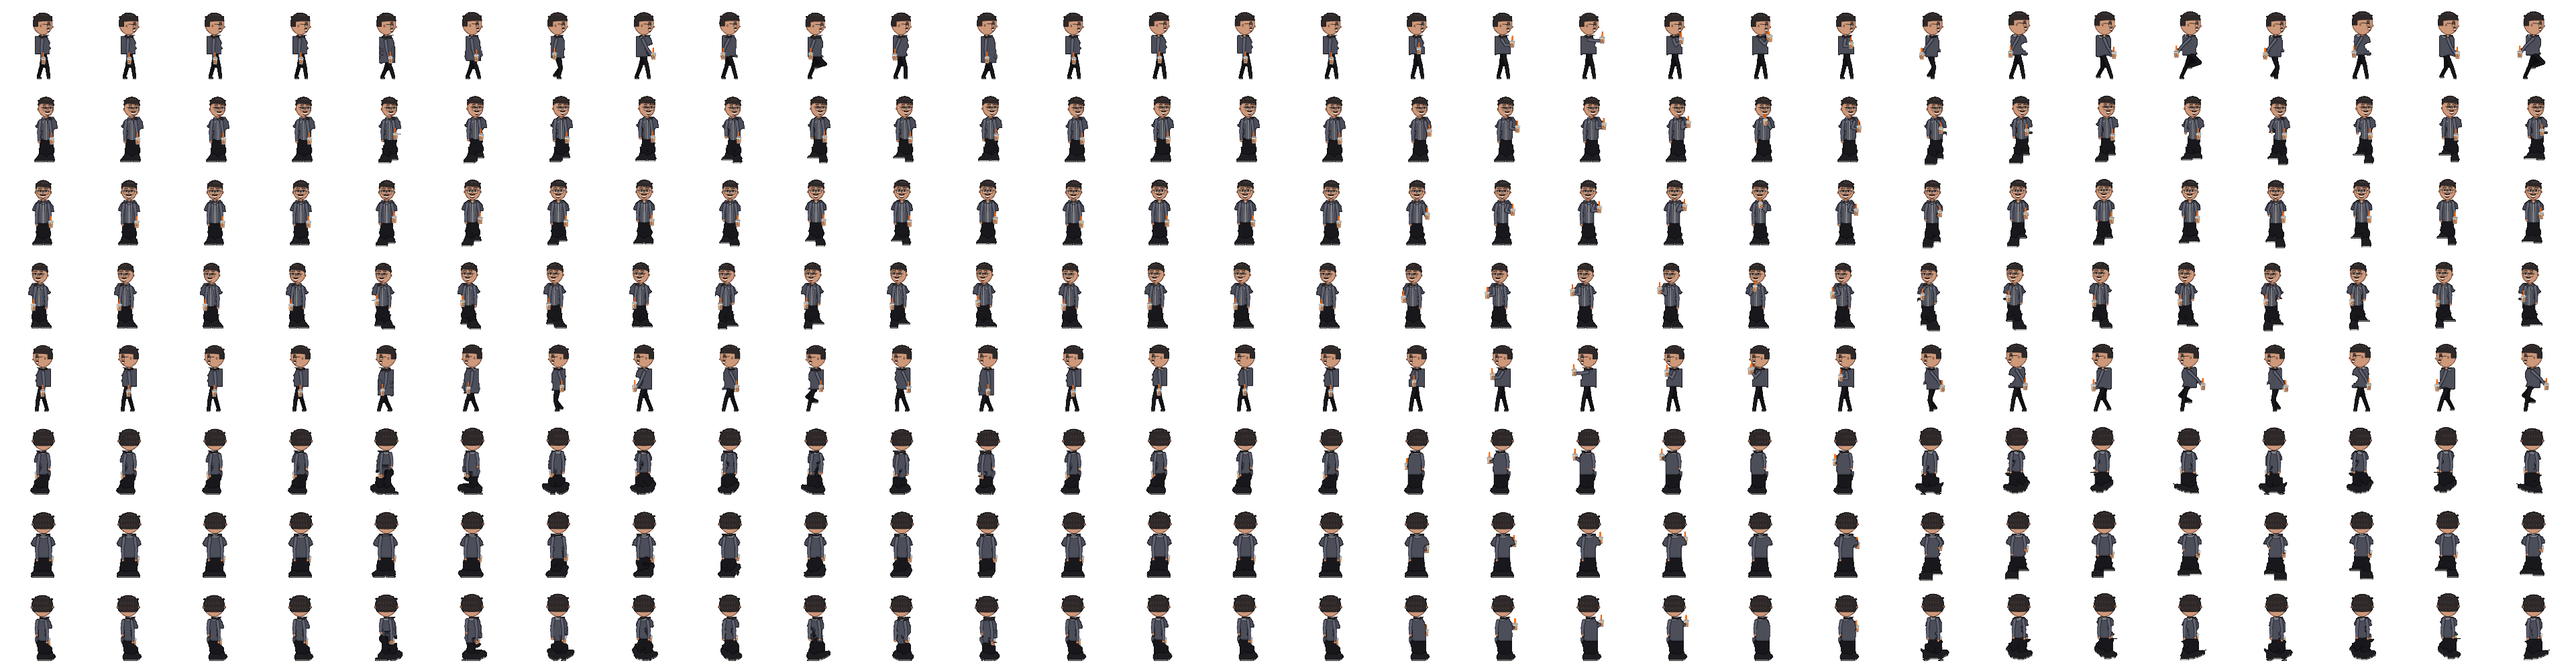
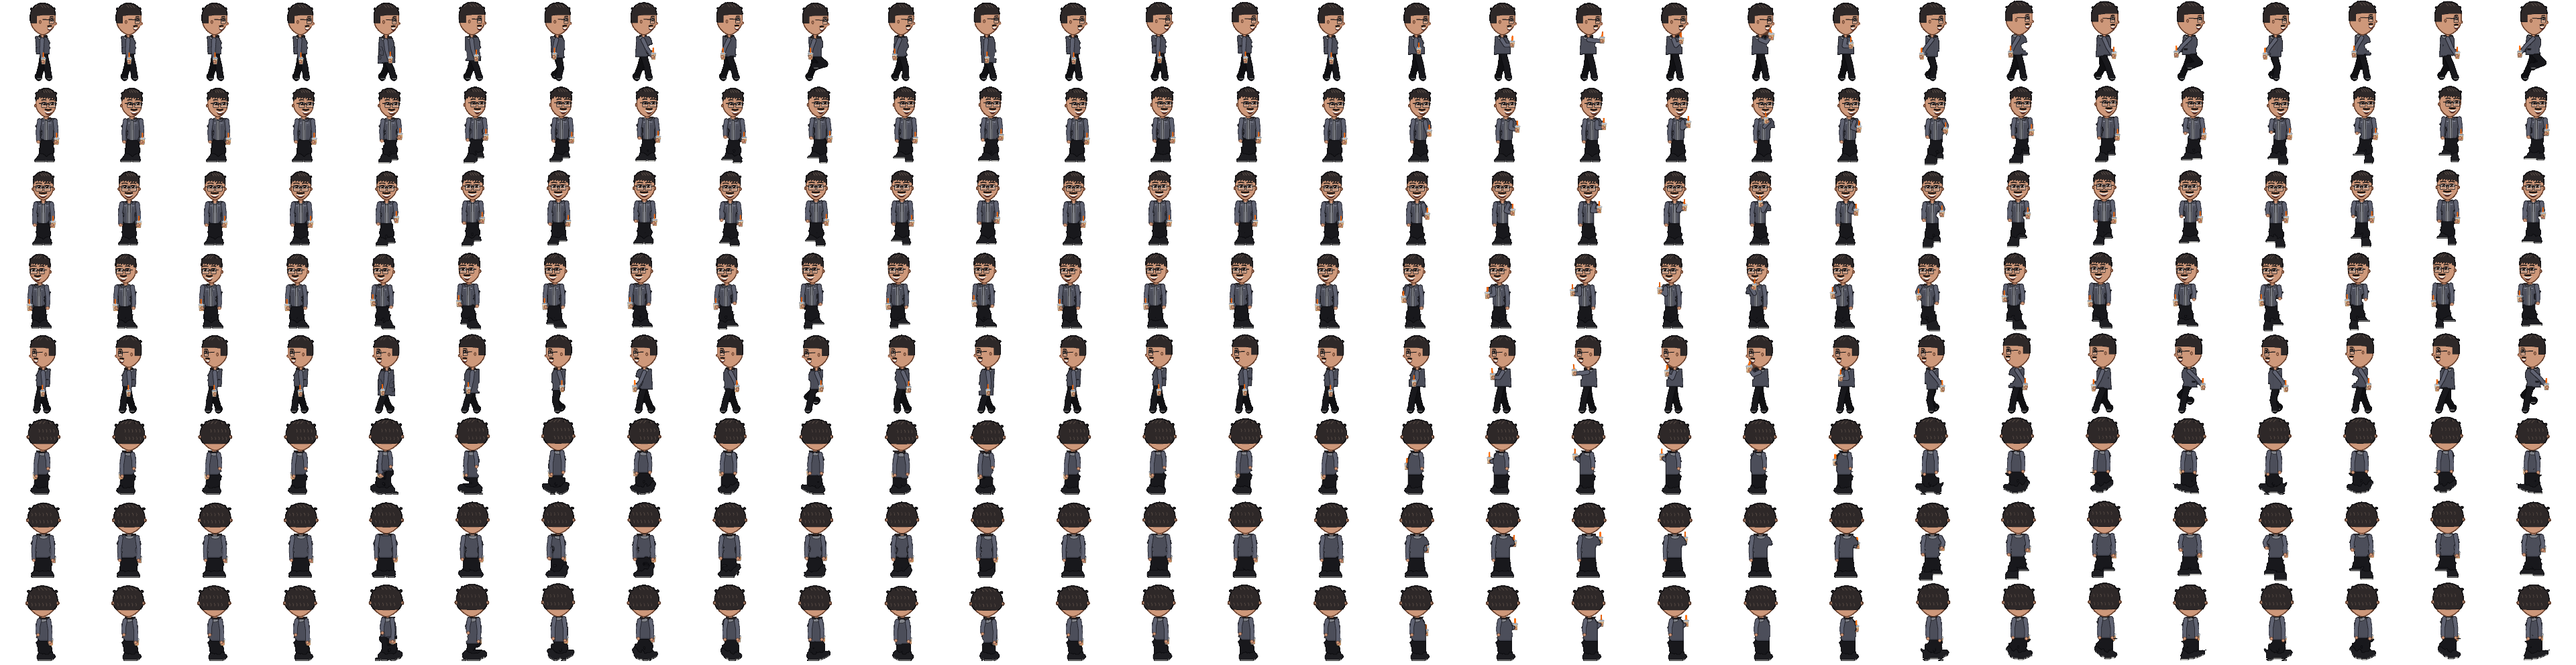
Billy: smooth shoulders, baggy pants all directions, normal arms, bigger oval head
- jacket shoulder aligned to the sleeve (no flap); side-view back is a fixed-depth
  rounded line that follows the torso lean
- profile legs wider with bunched hems; NW/NE torso filled where the kid arm was cut
- arms ARM_R 3.5 with hands; head 1.38 tall oval, scaled 1.45x about the chin
- solid check upper-back window neck+4..+11 (swinging run arm below it)

diff --git a/phaser-tag-client/tools/make_billy_skin.py b/phaser-tag-client/tools/make_billy_skin.py
@@ -47,6 +47,10 @@ ASSETS = HERE.parent / "public" / "assets"
 
 SS = 4
 OW, OH = 128, 124          # output frame
+HEAD_SCALE = 1.45
+ARM_R = 3.5
+BACK_D = 12.0
+TORSO_D = 15.0
 OBASE = 118                # feet line in the output frame
 SRC_BASE = 96              # feet line in kid.png
 SRC_CX = 40
@@ -269,7 +273,7 @@ def render_body(lab, wp, back_fx=0):
         if back_fx:
             # side view: square the jacket back off to the torso's back line
             # (the warp slants the shoulder and the removed far arm notches it)
-            y0, y1 = int(S(wp.yn_o - 0.5)), jr.max() - SS
+            y0, y1 = int(S(wp.yn_o - 0.5)), jr.max() + 1
             wrows = range(int(S(wp.yn_o - 4)), int(S(wp.yn_o + 4)))
             wid = [(union[y].sum() if union[y].any() else 10 ** 6, y) for y in wrows]
             if wid:
@@ -280,10 +284,32 @@ def render_body(lab, wp, back_fx=0):
                      for y in range(y0, y1) if J[y].any()}
             if edges:
                 lower = [v for y, v in edges.items() if y > (y0 + y1) / 2]
-                ref = np.percentile(lower or list(edges.values()), 20 if back_fx > 0 else 80)
+                # fixed torso depth behind the neck in every side frame
+                wy = min(wid)[1] if wid else y0
+                nx_ = xs_[union[wy]]
+                ncx_ = (nx_.min() + nx_.max()) / 2 if len(nx_) else np.median(list(edges.values()))
+                # fixed torso depth behind the neck; follow the lean of the
+                # back (slope of the existing back line)
+                # torso axis: neck centre -> centre of the jacket hem row
+                hy_ = y1 - 1
+                hx_ = xs_[(L[hy_] == JACKET)]
+                if len(hx_) and hy_ > wy:
+                    slope = float(np.clip(((hx_.min() + hx_.max()) / 2 - ncx_) / (hy_ - wy), -0.05, 0.05))
+                else:
+                    slope = 0.0
                 for y, e in edges.items():
-                    rb = max(0.0, 3.0 * SS - (y - y0)) * 0.8
+                    ref = ncx_ - back_fx * BACK_D * SS + slope * (y - wy)
+                    Rr = 4.5 * SS
+                    dy_ = min(Rr, y - y0)
+                    rb = Rr - math.sqrt(max(0.0, Rr * Rr - (Rr - dy_) ** 2))
                     bx = int(round(ref + back_fx * rb))
+                    # cut anything behind the rounded back line
+                    if back_fx > 0:
+                        cut = (xs_ < bx) & np.isin(L[y], (JACKET, SLEEVE))
+                    else:
+                        cut = (xs_ > bx) & np.isin(L[y], (JACKET, SLEEVE))
+                    L[y, cut] = BG
+                    union[y, cut] = False
                     if back_fx > 0 and e > bx:
                         sl = slice(bx, e)
                     elif back_fx < 0 and e < bx:
@@ -293,6 +319,13 @@ def render_body(lab, wp, back_fx=0):
                     seg = ~union[y, sl] | (L[y, sl] == JACKET)
                     L[y, sl][seg] = JACKET
                     union[y, sl] = True
+            cps = components8(union)
+            if cps:
+                big_ = max(cps, key=lambda c_: c_.sum())
+                for c_ in cps:
+                    if c_ is not big_ and c_.sum() < 40 * SS * SS:
+                        L[c_] = BG
+                        union[c_] = False
     rgb = np.zeros(X.shape + (3,), np.uint8)
     for k, col in COL.items():
         rgb[L == k] = col
@@ -346,13 +379,13 @@ def rebuild_head(L, rgb, union, direction, wp, eyes_o):
         ey_m = float(np.mean([e[1] for e in eyes_o]))
         bot = max(bot, ey_m + 9.6)
         top = min(top, ey_m - 10.8)
-        hw = min(hw, (bot - top) / 1.26 / 2) if direction not in PROFILE else min(hw, (bot - top) / 1.12 / 2)
+        hw = min(hw, (bot - top) / 1.38 / 2) if direction not in PROFILE else min(hw, (bot - top) / 1.24 / 2)
     hh = (bot - top) / 2
     cy = (top + bot) / 2
     fx = FACE[direction][0]
     # jaw a touch narrower than the cranium
     t = np.clip((Yo - cy) / hh, 0, 1)
-    Xs = cx + (Xo - cx) / (1 - 0.2 * t * t)
+    Xs = cx + (Xo - cx) / (1 - 0.3 * t * t)
     sdf = _rbox_sdf(Xs, Yo, cx, cy, hw, hh, hw * 0.96)
     head = sdf < 0
     # erase the old head
@@ -446,8 +479,17 @@ def rebuild_head(L, rgb, union, direction, wp, eyes_o):
     # jacket
     below = (Yo > bot - 0.8) & ~allm
     stray = below & (L == SKIN)
-    L[stray] = JACKET
-    rgb[stray] = COL[JACKET]
+    Jk = L == JACKET
+    inside_j = np.zeros_like(stray)
+    for y in np.nonzero(stray.any(1))[0]:
+        xj = np.nonzero(Jk[y])[0]
+        if len(xj):
+            inside_j[y, xj.min():xj.max() + 1] = True
+    L[stray & inside_j] = JACKET
+    rgb[stray & inside_j] = COL[JACKET]
+    gone = stray & ~inside_j
+    L[gone] = BG
+    union[gone] = False
     ncx = cx - fx * (0.6 if direction in PROFILE else -0.2)
     nhw = 2.0 if direction in PROFILE else 2.5
     J = np.isin(L, (JACKET, SLEEVE)) & (np.abs(Xo - ncx) < nhw)
@@ -495,8 +537,10 @@ def leg_layer(hip, foot, fx, back, L_leg):
     toe = (foot[0] + fx * 2.5, foot[1] - 1.5)
     heel = (foot[0] - fx * 1.4, foot[1] - 1.7)
     parts = [
-        (capsule_fn(hip, 3.4, knee, 2.9), pc),
-        (capsule_fn(knee, 2.9, ankle, 2.5), pc),
+        (capsule_fn(hip, 5.0, knee, 4.8), pc),
+        (capsule_fn(knee, 4.8, ankle, 4.7), pc),
+        # loose hem bunched over the sneaker
+        (capsule_fn((ankle[0] - fx * 0.4, ankle[1] - 1.6), 5.1, (ankle[0] + fx * 0.6, ankle[1] + 0.2), 5.0), pc),
         (capsule_fn(heel, 1.75, toe, 1.55), COL[SHOE]),
     ]
     im = shapes_layer((OH, OW), parts, LINE, 0.75)
@@ -805,14 +849,14 @@ def arm_layer(sh, hand, elbow):
     dd = math.hypot(dx, dy) or 1.0
     cuff = (hand[0] - dx / dd * 1.6, hand[1] - dy / dd * 1.6)
     parts = [
-        (capsule_fn(sh, 2.7, elbow, 2.35), COL[SLEEVE]),
-        (capsule_fn(elbow, 2.35, cuff, 2.1), COL[SLEEVE]),
+        (capsule_fn(sh, ARM_R, elbow, ARM_R - 0.3), COL[SLEEVE]),
+        (capsule_fn(elbow, ARM_R - 0.3, cuff, ARM_R - 0.5), COL[SLEEVE]),
     ]
     return shapes_layer((OH, OW), parts, SLEEVE_LINE, 0.8)
 
 
 def hand_layer(hand):
-    return shapes_layer((OH, OW), [(disc_fn(hand, 1.9), COL[SKIN])], SKIN_LINE, 0.6)
+    return shapes_layer((OH, OW), [(disc_fn(hand, 2.4), COL[SKIN])], SKIN_LINE, 0.6)
 
 
 def elbow_of(sh, hand, out_x):
@@ -926,20 +970,6 @@ def billyfy(src_f, direction, anim, col, meta, memo, wp, idle_f):
     if comps_:
         keep_ = max(comps_, key=lambda c_: c_.sum())
         lab[(lab > 0) & ~keep_] = BG
-    if direction in PROFILE:
-        # side view: the removed far arm leaves a slanted notch in the upper
-        # back; square the back of the jacket off to the torso's back line
-        jk2 = lab == JACKET
-        back = int(round(np.percentile(los, 15) if fx > 0 else np.percentile(his, 85))) if los else int(round(tlo if fx > 0 else thi))
-        for y in range(g.neck, g.hem):
-            if not jk2[y].any():
-                continue
-            b_ = back + fx * max(0, 2 - (y - g.neck))
-            xs_j = xs_all[jk2[y]]
-            if fx > 0 and xs_j.min() > b_:
-                lab[y, b_:xs_j.min()] = JACKET
-            elif fx < 0 and xs_j.max() < b_:
-                lab[y, xs_j.max() + 1:b_ + 1] = JACKET
     free = []  # (shoulder_out, hand_out, outward_x, side)
     sides = [0] if direction in PROFILE else [-1, 1]
     for s_ in sides:
@@ -960,6 +990,15 @@ def billyfy(src_f, direction, anim, col, meta, memo, wp, idle_f):
             hand_o = memo.get((direction, anim, s_, k), memo.get((direction, "hand", s_),
                               wp.pt((g.head_cx + s_ * 8.5 - fx * 1.0, g.hem - 3))))
         sh_o = wp.pt(sh_src)
+        if direction not in PROFILE:
+            # sleeve's outer edge on the jacket's shoulder line: no flap of
+            # jacket sticking out past the arm
+            jr_ = lab[int(round(g.neck + 5))] == JACKET
+            if jr_.any():
+                xs_j = xs_all[jr_]
+                e_src = (xs_j.max() + 1.0) if s_ > 0 else float(xs_j.min())
+                e_o = wp.pt((e_src, g.neck + 5))[0]
+                sh_o = (e_o - s_ * (ARM_R - (-0.3 if direction in ("NW", "NE") else 0.7)), wp.pt((sh_src[0], g.neck + 3.4))[1])
         if direction not in PROFILE:
             hand_o = (sh_o[0] + s_ * min(1.8, max(0.8, s_ * (hand_o[0] - sh_o[0]))), hand_o[1])
         out_x = s_ if direction not in PROFILE else -fx
@@ -993,6 +1032,32 @@ def billyfy(src_f, direction, anim, col, meta, memo, wp, idle_f):
             res.append((s_, pm(arm_layer(sh_o, hand_o, el)), pm(hand_layer(hand_o)), hand_o))
         return res
 
+    if direction in ("NW", "NE"):
+        # back diagonals: the kid's own arm sits inside the torso and leaves
+        # seam lines once the new arms are drawn; it is all jacket from behind
+        lab = lab.copy()
+        lab[np.isin(lab, (SLEEVE, HAND)) & (np.mgrid[0:lab.shape[0], 0:lab.shape[1]][0] < g.hem - 8)] = JACKET
+        # the kid's arm was cut out of the torso: fill the torso back to the
+        # shoulder-row width down to the waist
+        jy = np.nonzero((lab == JACKET).any(1))[0]
+        if len(jy):
+            y_s = int(jy.min()) + 3
+            xs_r = np.nonzero(lab[y_s] == JACKET)[0]
+            if len(xs_r):
+                xl, xr = xs_r.min(), xs_r.max()
+                for y_ in range(y_s, int(jy.max()) + 1):
+                    seg_ = lab[y_, xl:xr + 1]
+                    seg_[np.isin(seg_, (BG,))] = JACKET
+        # the kid's hip-height hand was labelled pants: inside the jacket it
+        # is jacket (pants pixels with jacket on both sides in the row)
+        for y_ in range(lab.shape[0]):
+            jx = np.nonzero(lab[y_] == JACKET)[0]
+            if len(jx) < 2:
+                continue
+            row = lab[y_]
+            px_ = np.nonzero(row == PANTS)[0]
+            inside = px_[(px_ > jx.min()) & (px_ < jx.max())]
+            row[inside] = JACKET
     L, union, rgb, lines = render_body(lab, wp, fx if direction in PROFILE else 0)
     eyes = eyes_of(src_f if not tag else idle_f, g if not tag else Geometry(idle_f))
     eyes_o = [wp.pt((x, y)) + (ew,) for x, y, ew in eyes]
@@ -1018,6 +1083,20 @@ def billyfy(src_f, direction, anim, col, meta, memo, wp, idle_f):
     if mouth is None:
         mouth = memo.get((direction, "mouth"), ((head_box[0] + head_box[2]) / 2, head_box[3] - 5))
     memo[(direction, "mouth")] = mouth
+    # bigger head, closer to James's chibi head:body ratio, scaled about the
+    # chin so it stays on the neck
+    hm2 = grow(hm, np.ones_like(hm), 3)
+    ba = np.asarray(body).copy()
+    hl_ = ba.copy()
+    hl_[~hm2] = 0
+    cyb = hy.max()
+    ax = float(np.median(hx[hy >= cyb - 2 * SS]))
+    ay = float(cyb)
+    k_ = HEAD_SCALE
+    big = Image.fromarray(hl_, "RGBA").transform(
+        body.size, Image.AFFINE, (1 / k_, 0, ax - ax / k_, 0, 1 / k_, ay - ay / k_), resample=Image.NEAREST)
+    body = Image.alpha_composite(body, big)
+    mouth = (ax / SS + (mouth[0] - ax / SS) * k_, ay / SS + (mouth[1] - ay / SS) * k_)
 
     out = pm(body)
     if legs:

diff --git a/phaser-tag-client/tools/check_billy_solid.py b/phaser-tag-client/tools/check_billy_solid.py
@@ -29,7 +29,7 @@ for r in range(im.shape[0] // fh):
             wid = {y: np.count_nonzero(a[y]) for y in rows}
             neck = min(range(int(t + 0.25 * h), int(t + 0.5 * h)), key=lambda y: wid.get(y, 999))
             back = {y: (np.nonzero(a[y])[0].min() if r == 0 else -np.nonzero(a[y])[0].max())
-                    for y in range(neck + 4, neck + 14) if a[y].any()}
+                    for y in range(neck + 4, neck + 12) if a[y].any()}
             ref = min(back.values())
             worst = max(back.values()) - ref
             if worst >= 2:
